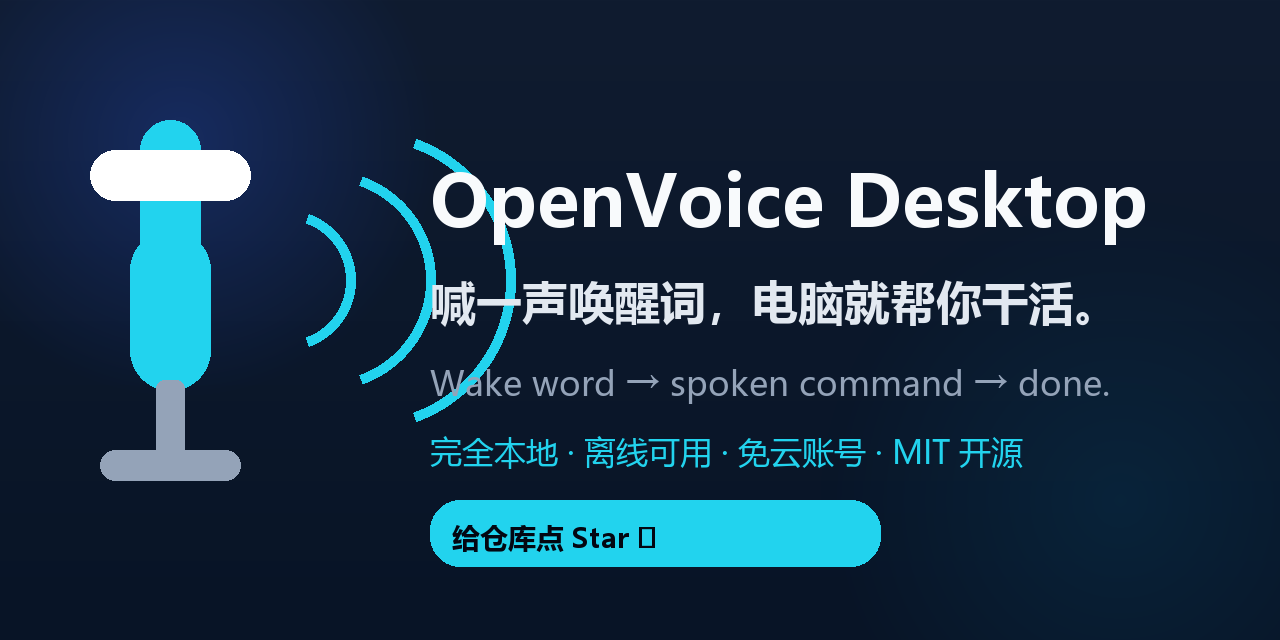
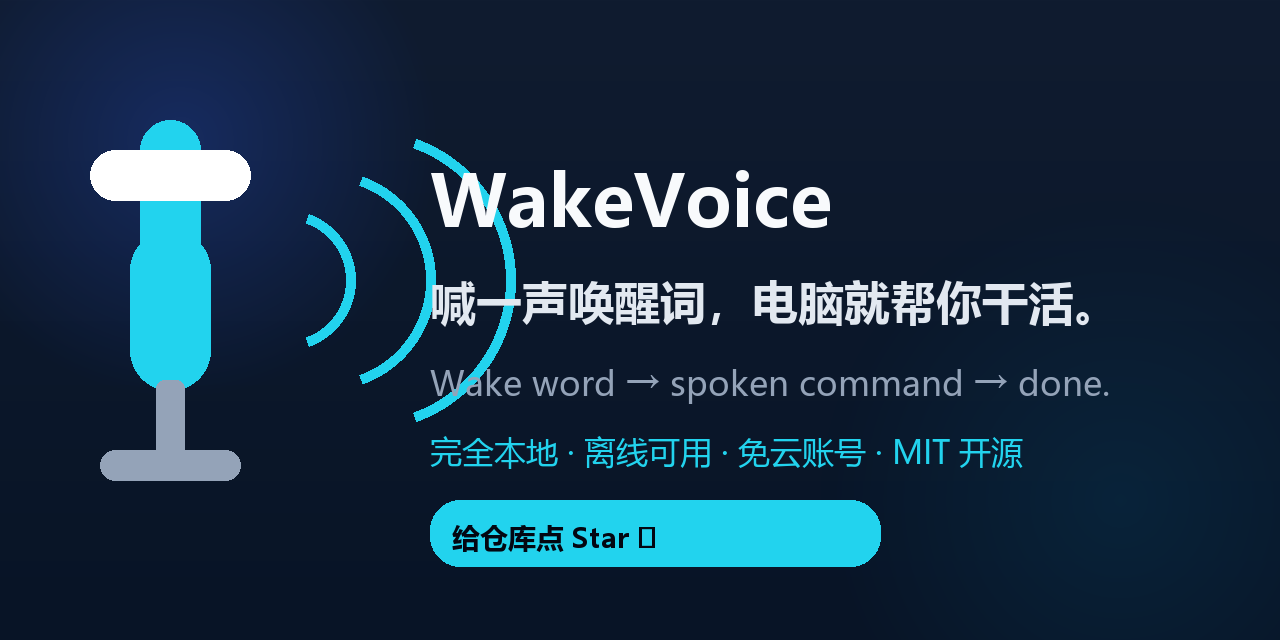
feat: first-run config generation, neutral LLM wording, wake-branded assets
- bootstrap/main auto-create config/config.yaml from example on first run
  (never overwrites an existing user config)
- scripts/build_dist.py: vendor-neutral Chat Completions wording
- llm.py docstring: describe any Chat Completions-compatible endpoint
- config.example.yaml: keep api_key_env default in sync with code
- add scripts/gen_assets.py and regenerate demo/og-card brand images
- normalize launcher batch encoding (no BOM + CRLF)

Changed region(s): [[0.3125, 0.25, 0.9062, 0.375]]

diff --git a/scripts/gen_assets.py b/scripts/gen_assets.py
@@ -1,0 +1,178 @@
+# -*- coding: utf-8 -*-
+"""Regenerate the README demo screenshot and social preview card.
+
+Run from the repository root:
+
+    python scripts/gen_assets.py
+
+Draws the UI mockup and the social card as pure vector text and shapes
+(no third-party imagery or fonts), so the repository media is fully
+original and license-clean. Requires Pillow.
+"""
+from __future__ import annotations
+
+import pathlib
+import sys
+
+from PIL import Image, ImageDraw, ImageFont
+
+ROOT = pathlib.Path(__file__).resolve().parent.parent
+
+def _render_demo():
+    from PIL import Image, ImageDraw, ImageFont
+
+    W,H = 1040, 640
+    bg = (17, 24, 39)        # slate-900
+    panel = (31, 41, 55)     # slate-800
+    line = (55, 65, 81)      # slate-700
+    accent = (34, 211, 238)  # cyan-400
+    green = (52, 211, 153)
+    white = (243,244,246)
+    grey = (156,163,175)
+    yellow = (251,191,36)
+
+    def font(sz, bold=False):
+        p = 'C:/Windows/Fonts/msyhbd.ttc' if bold else 'C:/Windows/Fonts/msyh.ttc'
+        try: return ImageFont.truetype(p, sz)
+        except Exception: return ImageFont.load_default()
+
+    img = Image.new('RGB', (W,H), bg)
+    d = ImageDraw.Draw(img)
+
+    # Outer rounded frame (approx with rectangle)
+    d.rounded_rectangle([10,10,W-10,H-10], radius=22, fill=panel, outline=line, width=2)
+
+    # Title bar
+    d.text((46, 30), 'WakeVoice', font=font(28, True), fill=white)
+    d.text((46, 72), '唤醒词模式 · 本地运行 · 免云账号', font=font(18), fill=grey)
+    # dots
+    for i,(dx,col) in enumerate([(W-140, (248,113,113)),(W-108,(251,191,36)),(W-76,(52,211,153))]):
+        d.ellipse([dx,36,dx+18,54], fill=col)
+
+    # left hint panel
+    d.rounded_rectangle([46,130,360,H-46], radius=16, fill=(15,23,42), outline=line, width=1)
+    d.text((76,160), '状态', font=font(20,True), fill=yellow)
+    items = [
+        ('●  正在听唤醒词', green),
+        ('“你好伙伴”', white),
+        ('', None),
+        ('●  基础对话：本地', green),
+        ('●  技能：已加载 10+', green),
+        ('●  数据：不出电脑', green),
+    ]
+    y=200
+    for t,c in items:
+        if not t: y+=14; continue
+        d.text((76,y), t, font=font(19), fill=c)
+        y+=38
+    d.text((76, y+6), '按 Esc 停止当前任务', font=font(17), fill=grey)
+
+    # chat bubbles right
+    d.text((404,150), '对话演示', font=font(22,True), fill=white)
+    bubbles = [
+        ('你', '你好伙伴', (59,130,246), (30,58,138), 420),
+        ('它', '我在。有什么吩咐？', accent, (8,47,73), 520),
+        ('你', '打开记事本', (59,130,246), (30,58,138), 620),
+        ('它', '好的，已经帮你打开记事本了。', accent, (8,47,73), 720),
+    ]
+    def wrap(text, fnt, maxw):
+        if d.textlength(text, font=fnt) <= maxw: return [text]
+        out=[]; cur=''
+        for ch in text:
+            if d.textlength(cur+ch, font=fnt) > maxw:
+                out.append(cur); cur=ch
+            else: cur+=ch
+        if cur: out.append(cur)
+        return out
+
+    def bubble(name, text, border, fill, y):
+        f = font(19)
+        d.text((404,y), name, font=font(18,True), fill=border)
+        tw = d.textlength(text, font=f)
+        bw = min(int(tw)+60, 560)
+        wrapped = wrap(text, f, 560-84)
+        bh = 44 + (len(wrapped)-1)*34
+        d.rounded_rectangle([404, y+26, 404+bw, y+26+bh], radius=14, fill=fill, outline=border, width=1)
+        yy=y+44
+        for wline in wrapped:
+            d.text((424, yy), wline, font=f, fill=white)
+            yy+=34
+
+    bubble('你','你好伙伴',(59,130,246),(30,58,138),160)
+    bubble('它','我在。有什么吩咐？',accent,(8,47,73),268)
+    bubble('你','打开记事本',(59,130,246),(30,58,138),370)
+    bubble('它','好的，已经帮你打开记事本了。',accent,(8,47,73),478)
+    # time hint
+    d.text((404, 588), '停顿 1.5 秒自动执行 · 无需按键', font=font(16), fill=grey)
+
+    out = ROOT / "assets" / "demo.png"
+    out.parent.mkdir(parents=True, exist_ok=True)
+    img.save(out)
+    print("wrote", out)
+
+
+def _render_og():
+    from PIL import Image, ImageDraw, ImageFont
+
+    W,H = 1280,640
+    def font(sz, bold=False):
+        p='C:/Windows/Fonts/msyhbd.ttc' if bold else 'C:/Windows/Fonts/msyh.ttc'
+        try: return ImageFont.truetype(p,sz)
+        except Exception: return ImageFont.load_default()
+
+    # gradient bg deep slate -> darker
+    img=Image.new('RGB',(W,H),(10,18,30))
+    px=img.load()
+    for y in range(H):
+        t=y/H
+        r=int(16+ (8-16)*t)
+        g=int(28+ (20-28)*t)
+        b=int(48+ (38-48)*t)
+        for x in range(W):
+            px[x,y]=(r,g,b)
+    d=ImageDraw.Draw(img)
+
+    # soft accent glows
+    for cx,cy,rad,col in [(180,140,260,(30,58,138)),(1120,500,300,(8,47,73))]:
+        for yy in range(max(0,cy-rad), min(H,cy+rad)):
+            for xx in range(max(0,cx-rad), min(W,cx+rad)):
+                dist=((xx-cx)**2+(yy-cy)**2)**0.5
+                if dist<rad:
+                    a=(1-dist/rad)
+                    cur=px[xx,yy]
+                    px[xx,yy]=tuple(int(cur[i]*(1-a*0.55)+col[i]*a*0.55) for i in range(3))
+
+    # left: microphone emoji visual: simple mic drawn
+    def rounded_rect(x,y,w,h,r,fill):
+        d.rounded_rectangle([x,y,x+w,y+h],radius=r,fill=fill)
+    # mic capsule
+    mx,my=170,320
+    d.rounded_rectangle([mx-40,my-90,mx+40,my+70],radius=46, fill=(34,211,238))
+    d.rounded_rectangle([mx-30,my-200,mx+30,my-40],radius=30, fill=(34,211,238))
+    d.rounded_rectangle([mx-80,my-170,mx+80,my-120],radius=26, fill=(255,255,255))
+    # stand
+    d.rounded_rectangle([mx-14,my+60,mx+14,my+140],radius=8, fill=(148,163,184))
+    d.rounded_rectangle([mx-70,my+130,mx+70,my+160],radius=16, fill=(148,163,184))
+    # wave arcs (right)
+    for i,rad in enumerate([70,110,150]):
+        x0=mx+45
+        d.arc([x0,my-40-rad,x0+2*rad,my-40+rad], start=-70,end=70, fill=(34,211,238), width=10)
+
+    # right: title
+    d.text((430,150), 'WakeVoice', font=font(72,True), fill=(248,250,252))
+    d.text((430,270), '喊一声唤醒词，电脑就帮你干活。', font=font(46,True), fill=(226,232,240))
+    d.text((430,360), 'Wake word → spoken command → done.', font=font(34), fill=(148,163,184))
+    d.text((430,430), '完全本地 · 离线可用 · 免云账号 · MIT 开源', font=font(32), fill=(34,211,238))
+    d.rounded_rectangle([430,500,880,566], radius=30, fill=(34,211,238))
+    d.text((452,518), '给仓库点 Star ⭐', font=font(28,True), fill=(3,7,18))
+
+    out = ROOT / "assets" / "og-card.png"
+    out.parent.mkdir(parents=True, exist_ok=True)
+    img.save(out)
+    print("wrote", out)
+
+
+if __name__ == "__main__":
+    _render_demo()
+    _render_og()
+    print("assets regenerated ->", ROOT / "assets")

diff --git a/main.py b/main.py
@@ -44,9 +44,32 @@ def _ensure_deps() -> None:
         print("依赖安装完成。")
 
 
+def _ensure_config() -> None:
+    """Auto-create config/config.yaml from the example on first run.
+
+    Never overwrites an existing file, so re-launching is always safe and the
+    user always ends up with a real, editable config after the first start.
+    """
+    try:
+        from pathlib import Path
+        here = Path(os.path.dirname(os.path.abspath(__file__)))
+        dst = here / "config" / "config.yaml"
+        if dst.exists():
+            return
+        src = here / "config" / "config.example.yaml"
+        if not src.exists():
+            return
+        dst.parent.mkdir(parents=True, exist_ok=True)
+        dst.write_text(src.read_text(encoding="utf-8"), encoding="utf-8")
+        print("首次运行：已生成 config/config.yaml（可修改唤醒词/按键）。")
+    except Exception as e:  # best-effort; built-in defaults still work
+        print("提示：自动生成配置文件失败（{}），将使用默认配置。".format(e))
+
+
 def main() -> int:
     os.chdir(os.path.dirname(os.path.abspath(__file__)))
     _ensure_deps()
+    _ensure_config()
     from assistant.cli import main as cli_main
     return cli_main()
 

diff --git a/scripts/bootstrap.py b/scripts/bootstrap.py
@@ -120,10 +120,31 @@ def verify_setup() -> bool:
 
 
 
+
+def ensure_config() -> None:
+    """Create config/config.yaml from config.example.yaml on first run.
+
+    Idempotent: never overwrites an existing user config, so every launch is
+    safe. Gives new users a real editable file (wake word, keys, model) right
+    after a double-click install.
+    """
+    dst = ROOT / "config" / "config.yaml"
+    if dst.exists():
+        return
+    src = ROOT / "config" / "config.example.yaml"
+    if not src.exists():
+        print("==> config.example.yaml missing; using built-in defaults.")
+        return
+    dst.parent.mkdir(parents=True, exist_ok=True)
+    dst.write_text(src.read_text(encoding="utf-8"), encoding="utf-8")
+    print("==> 已生成配置文件: config/config.yaml（可自行修改唤醒词等）")
+
+
 def main() -> int:
     install_deps()
     install_package()
     download_model()
+    ensure_config()
     print()
     if not verify_setup():
         print("==> Setup incomplete; please fix the issues above and re-run.")

diff --git a/src/assistant/core/llm.py b/src/assistant/core/llm.py
@@ -1,7 +1,7 @@
-"""LLM integration: OpenAI-compatible chat + emotion + intent routing.
+"""LLM integration: chat + emotion + intent routing.
 
-Supports any OpenAI-compatible endpoint (OpenAI, DeepSeek, Ollama, vLLM, etc.)
-via `base_url`. Uses a lightweight structured prompt so the model returns
+Uses any Chat Completions-compatible endpoint (DeepSeek, Ollama, vLLM, etc.)
+via `base_url` with a lightweight structured prompt so the model returns
 JSON with `reply` and `emotion` fields, enabling emotional voice output.
 """
 from __future__ import annotations
@@ -15,7 +15,7 @@ EMOTIONS = ["neutral", "happy", "sad", "angry", "fear", "excited", "gentle", "ca
 
 
 class LLMClient:
-    """Thin wrapper over the OpenAI SDK; lazy import to keep memory low."""
+    """Thin wrapper over the optional LLM SDK; lazy import to keep memory low."""
 
     def __init__(self, base_url: str | None = None, api_key_env: str = "OPENAI_API_KEY",
                  model: str = "gpt-4o-mini", temperature: float = 0.7,
